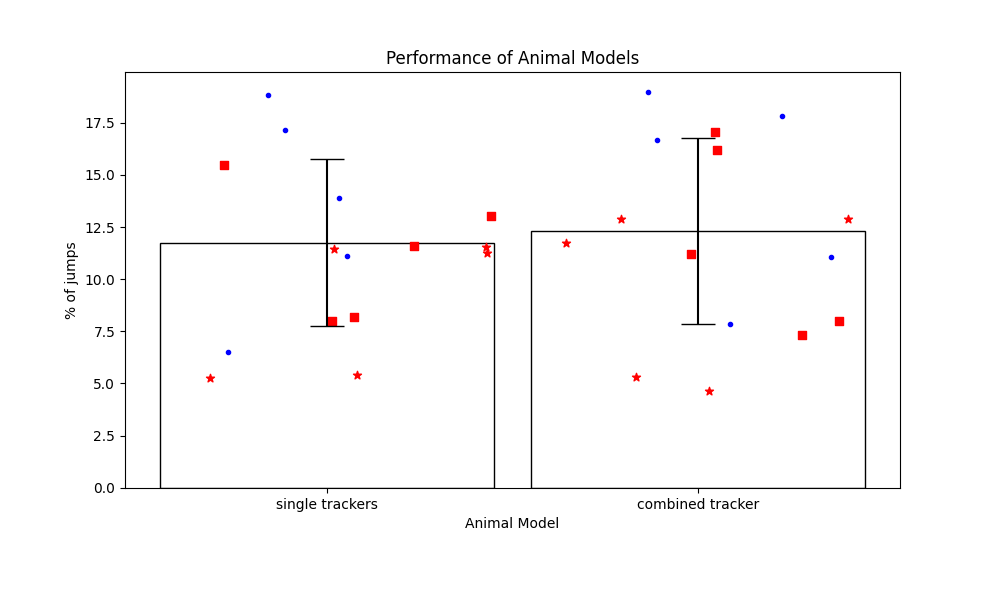
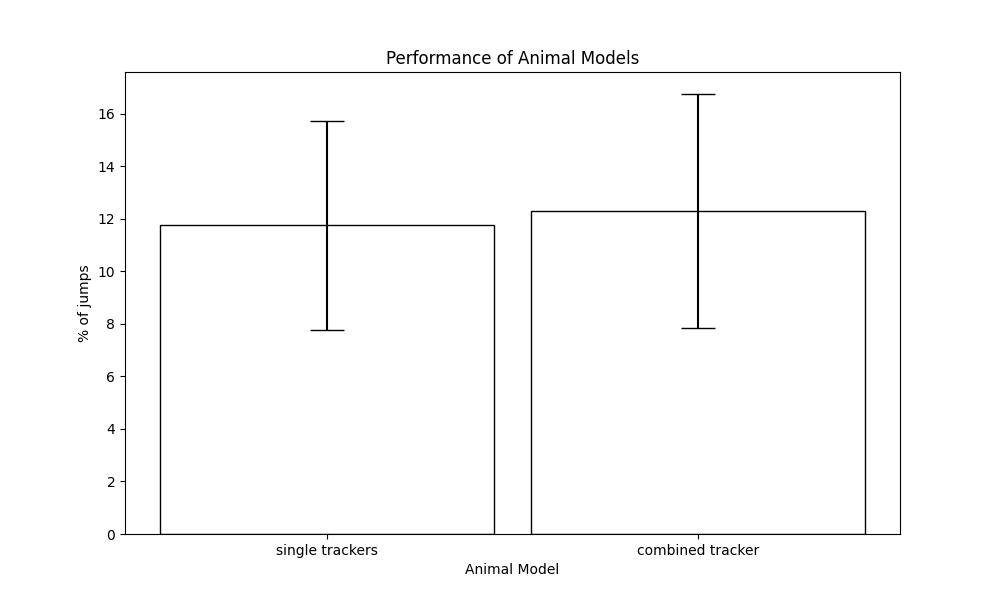
DLC update

diff --git a/DeepLabCut/DLC_jump_analysis/all_trackers/jump_analysis.py b/DeepLabCut/DLC_jump_analysis/all_trackers/jump_analysis.py
@@ -11,7 +11,7 @@ nose_directory = "csv_files"
 rump_directory = "csv_rump_files"
 
 
-def main(full_path, relative_path, fname):
+def main(full_path, relative_path, fname1, fname2):
     current_dir = os.getcwd()
     os.chdir(current_dir + '/' + relative_path)
 
@@ -36,23 +36,40 @@ def main(full_path, relative_path, fname):
     single_trackers_df = dataframes_list[1]
     #Order of single trackers: Ms22, RC1, Rear5
 
-    #arr = [Ms22_new_df_values, RC1_new_df_values, Rear5_new_df_values]
-    #arr = [single_trackers_df, combined_new_df_values]
-    #print(arr)
     #AVG THE VALUES FROM 3 SINGLE TRACKERS
-    #avg_new_df_values = 
+
   
 
     w = .9 # bar width
     x = [1, 2]
-    #x = [1, 2, 3]
     colors = ['red','blue']
     #y = Ms22_new_df_values, RC1_new_df_values, Rear5_new_df_values
     #y = single_trackers_df, combined_new_df_values, avg_new_df_values
-    y = single_trackers_df, combined_new_df_values
+    y1 = single_trackers_df, combined_new_df_values
+    y2 = single_trackers_df, combined_new_df_values #change this to y2 = single_trackers_df, combined_new_df_values, avg_new_df_values
 
-    fig, ax = plt.subplots()
-    ax.bar(x,
+
+    avg_per_tracker =[np.mean(yi) for yi in y2]
+    print(avg_per_tracker)
+    avg_all_trackers = np.mean(avg_per_tracker)
+    print(avg_all_trackers)
+
+
+    figure1 = plt.figure(1)
+    plt.bar(x,
+           height=[np.mean(yi) for yi in y],
+           yerr=[np.std(yi) for yi in y],    # error bars
+           capsize=12, # error bar cap width in points
+           width=w,    # bar width
+           #tick_label=["Rear5/Ms22", "Ms22", "combined"],#"RC1"],
+           tick_label=['single trackers', 'combined tracker'],
+           color=(0,0,0,0),  # face color transparent
+           edgecolor=['black'],
+         #ecolor=colors,    # error bar colors; setting this raises an error for whatever reason.
+         )
+
+    figure2 = plt.figure(2)
+    plt.bar(x,
            height=[np.mean(yi) for yi in y],
            yerr=[np.std(yi) for yi in y],    # error bars
            capsize=12, # error bar cap width in points
@@ -64,64 +81,103 @@ def main(full_path, relative_path, fname):
          #ecolor=colors,    # error bar colors; setting this raises an error for whatever reason.
          )
     
-    avg_per_tracker =[np.mean(yi) for yi in y]
-    print(avg_per_tracker)
-    avg_all_trackers = np.mean(avg_per_tracker)
-    print(avg_all_trackers)
 
 
-    for i in range(len(x)):
-        #distribute scatter randomly across whole width of bar
-        a = y[i]
-        #print(y)
-        ax.scatter(x[i] + np.random.random(a[0:5].size) * w - w / 2, a[0:5], color=colors[1], marker='.') #circle marker = Ms22
-        ax.scatter(x[i] + np.random.random(a[5:10].size) * w - w / 2, a[5:10], color=colors[0], marker = "s") #square marker = RC1
-        ax.scatter(x[i] + np.random.random(a[10:15].size) * w - w / 2, a[10:15], color=colors[0], marker = "*") #star marker = Rear5
 
-    box = ax.get_position()
-    ax.set_position([box.x0, box.y0 + box.height * 0.1,
-                     box.width, box.height * 0.9])
+    # fig, ax = plt.subplots()
+    # ax.bar(x,
+    #        height=[np.mean(yi) for yi in y],
+    #        yerr=[np.std(yi) for yi in y],    # error bars
+    #        capsize=12, # error bar cap width in points
+    #        width=w,    # bar width
+    #        #tick_label=["Rear5/Ms22", "Ms22", "combined"],#"RC1"],
+    #        tick_label=['single trackers', 'combined tracker'],
+    #        color=(0,0,0,0),  # face color transparent
+    #        edgecolor=['black'],
+    #      #ecolor=colors,    # error bar colors; setting this raises an error for whatever reason.
+    #      )
     
 
-    # # Put a legend below current axis
-    #legend_colors = {'females':'red', 'males':'blue'}
-    #labels = list(legend_colors.keys()) 
-    #handles = [plt.Rectangle((0,0),1,1, color=legend_colors[labels]) for label in labels]
+
+    # # for i in range(len(x)):
+    # #     #distribute scatter randomly across whole width of bar
+    # #     a = y[i]
+    # #     #print(y)
+    # #     ax.scatter(x[i] + np.random.random(a[0:5].size) * w - w / 2, a[0:5], color=colors[1], marker='.') #circle marker = Ms22
+    # #     ax.scatter(x[i] + np.random.random(a[5:10].size) * w - w / 2, a[5:10], color=colors[0], marker = "s") #square marker = RC1
+    # #     ax.scatter(x[i] + np.random.random(a[10:15].size) * w - w / 2, a[10:15], color=colors[0], marker = "*") #star marker = Rear5
+
+    # # box = ax.get_position()
+    # # ax.set_position([box.x0, box.y0 + box.height * 0.1,
+    # #                  box.width, box.height * 0.9])
+    
+
+    # # # Put a legend below current axis
+    # #legend_colors = {'females':'red', 'males':'blue'}
+    # #labels = list(legend_colors.keys()) 
+    # #handles = [plt.Rectangle((0,0),1,1, color=legend_colors[labels]) for label in labels]
 
    
-    #ax.legend(loc='upper center', bbox_to_anchor=(0.5, -0.15),
-    #        fancybox=False, shadow=True, ncol=5)
+    # #ax.legend(loc='upper center', bbox_to_anchor=(0.5, -0.15),
+    # #        fancybox=False, shadow=True, ncol=5)
 
-    Ms22 = mlines.Line2D([], [], color='blue', marker='.', linestyle='None', markersize=10, label='Ms22')
-    RC1 = mlines.Line2D([], [], color='red', marker='s', linestyle='None', markersize=10, label='RC1')
-    Rear5 = mlines.Line2D([], [], color='red', marker='*', linestyle='None', markersize=10, label='Rear5')
-    Rear1 = mlines.Line2D([], [], color='blue', marker='^', linestyle='None', markersize=10, label='Rear1')
-    #female = mlines.Line2D([], [], color='red', marker='^', linestyle='None', markersize=10, label='Rear1')
-    #male = mlines.Line2D([], [], color='blue', marker='^', linestyle='None', markersize=10, label='Rear1')
-    #female  = mlines.Line2D([], [], marker='hello', linestyle='None', label='female')
+    # Ms22 = mlines.Line2D([], [], color='blue', marker='.', linestyle='None', markersize=10, label='Ms22')
+    # RC1 = mlines.Line2D([], [], color='red', marker='s', linestyle='None', markersize=10, label='RC1')
+    # Rear5 = mlines.Line2D([], [], color='red', marker='*', linestyle='None', markersize=10, label='Rear5')
+    # Rear1 = mlines.Line2D([], [], color='blue', marker='^', linestyle='None', markersize=10, label='Rear1')
+    # #female = mlines.Line2D([], [], color='red', marker='^', linestyle='None', markersize=10, label='Rear1')
+    # #male = mlines.Line2D([], [], color='blue', marker='^', linestyle='None', markersize=10, label='Rear1')
+    # #female  = mlines.Line2D([], [], marker='hello', linestyle='None', label='female')
 
-    #ax.legend(handles=[Ms22, RC1, Rear5, Rear1, plt.Rectangle((0,0),1,1, color='red'), plt.Rectangle((0,0),1,1, color='blue')])
-    #legend = ax.legend(handles=[Ms22, RC1, Rear5, Rear1], (handletextpad=-2.0, handlelength=0))
+    # #ax.legend(handles=[Ms22, RC1, Rear5, Rear1, plt.Rectangle((0,0),1,1, color='red'), plt.Rectangle((0,0),1,1, color='blue')])
+    # #legend = ax.legend(handles=[Ms22, RC1, Rear5, Rear1], (handletextpad=-2.0, handlelength=0))
 
-    # ax.annotate('R: female',xy=(15, -35), xycoords='axes points',
-    #         size=10, ha='center', va='bottom',
-    #         bbox=dict(boxstyle='square', fc='w'))
+    # # ax.annotate('R: female',xy=(15, -35), xycoords='axes points',
+    # #         size=10, ha='center', va='bottom',
+    # #         bbox=dict(boxstyle='square', fc='w'))
 
-    # color_l = ['red', 'blue']
-    # for n, text in enumerate(legend.get_texts):
-    #     print( n, text)
-    #     text.set_color( color_l[n] )
+    # # color_l = ['red', 'blue']
+    # # for n, text in enumerate(legend.get_texts):
+    # #     print( n, text)
+    # #     text.set_color( color_l[n] )
 
-    plt.title("Performance of Animal Models")
-    plt.xlabel("Animal Model")
-    plt.ylabel("% of jumps")
-    #plt.legend(['x = x'],['s'],bbox_to_anchor =(0.65, 1.25), loc='lower center')
+    # plt.title("Performance of Animal Models")
+    # plt.xlabel("Animal Model")
+    # plt.ylabel("% of jumps")
+    # #plt.legend(['x = x'],['s'],bbox_to_anchor =(0.65, 1.25), loc='lower center')
+
+    # os.chdir(current_dir + '/saved_figs')
+    # figure = plt.gcf()
+    # figure.set_size_inches(10, 6)
+
+    # plt.savefig(fname, dpi=100)
+    # plt.show()
+    # plt.close()
+
+
+    # figure1 = plt.figure(1)
+    # plt.bar(x,
+    #        height=[np.mean(yi) for yi in y],
+    #        yerr=[np.std(yi) for yi in y],    # error bars
+    #        capsize=12, # error bar cap width in points
+    #        width=w,    # bar width
+    #        #tick_label=["Rear5/Ms22", "Ms22", "combined"],#"RC1"],
+    #        tick_label=['single trackers', 'combined tracker'],
+    #        color=(0,0,0,0),  # face color transparent
+    #        edgecolor=['black'],
+    #      #ecolor=colors,    # error bar colors; setting this raises an error for whatever reason.
+    #      )
 
     os.chdir(current_dir + '/saved_figs')
-    figure = plt.gcf()
-    figure.set_size_inches(10, 6)
-    plt.savefig(fname, dpi=100)
+    f = plt.figure(1)
+    plt.plot([1,2],[2,3])
+    plt.savefig(fname1, dpi=100)
+    plt.show()
+
+    g = plt.figure(2)
+    plt.plot([2,7,3],[5,1,9])
+    plt.savefig(fname2, dpi=100)
     plt.show()
 
 
-main(full_path_directory, nose_directory, "nose_results.png")
+main(full_path_directory, nose_directory, "nose_results_1.png", "nose_results_2.png")
